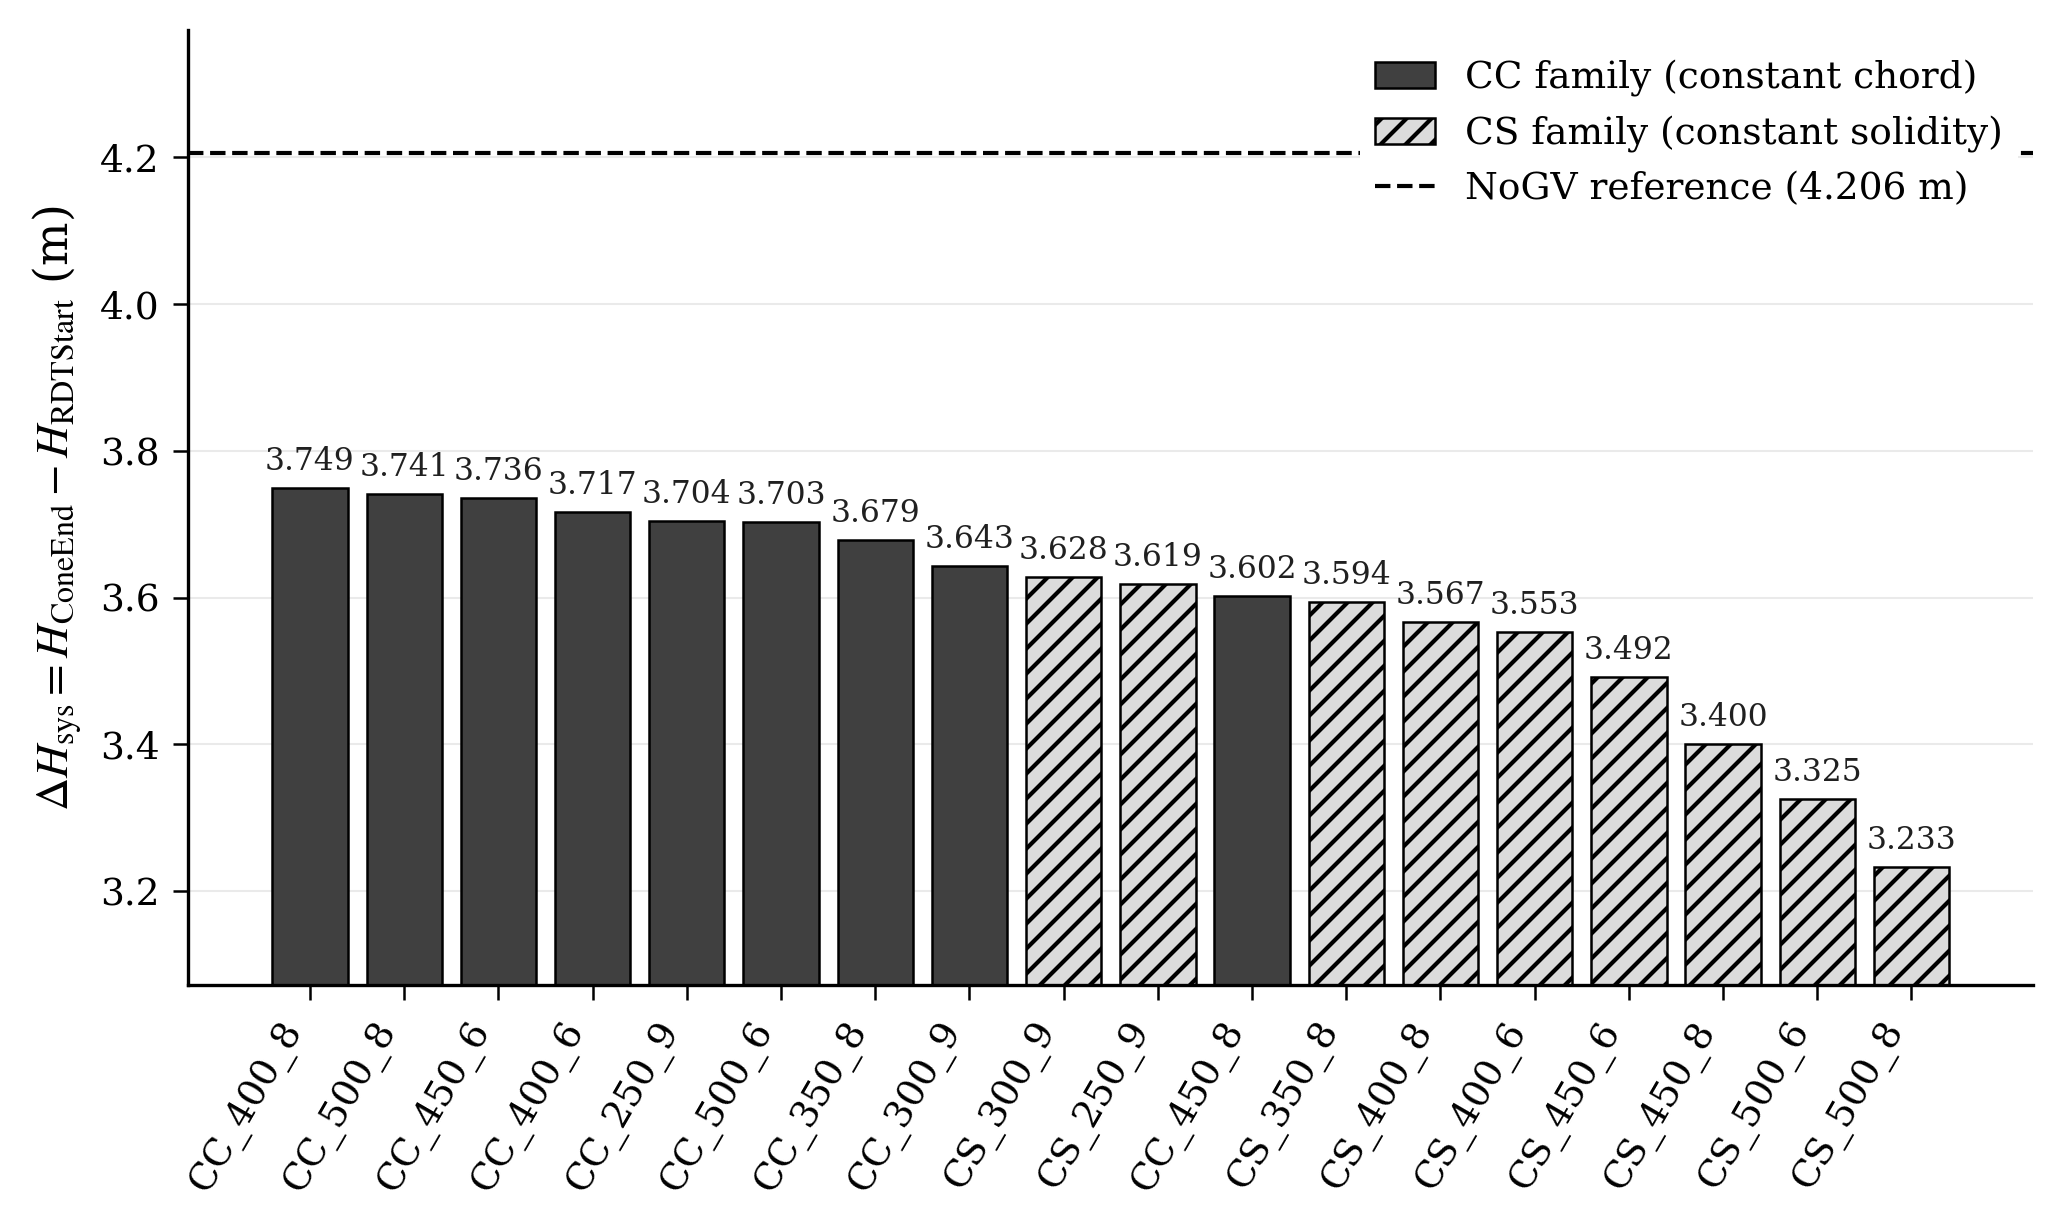
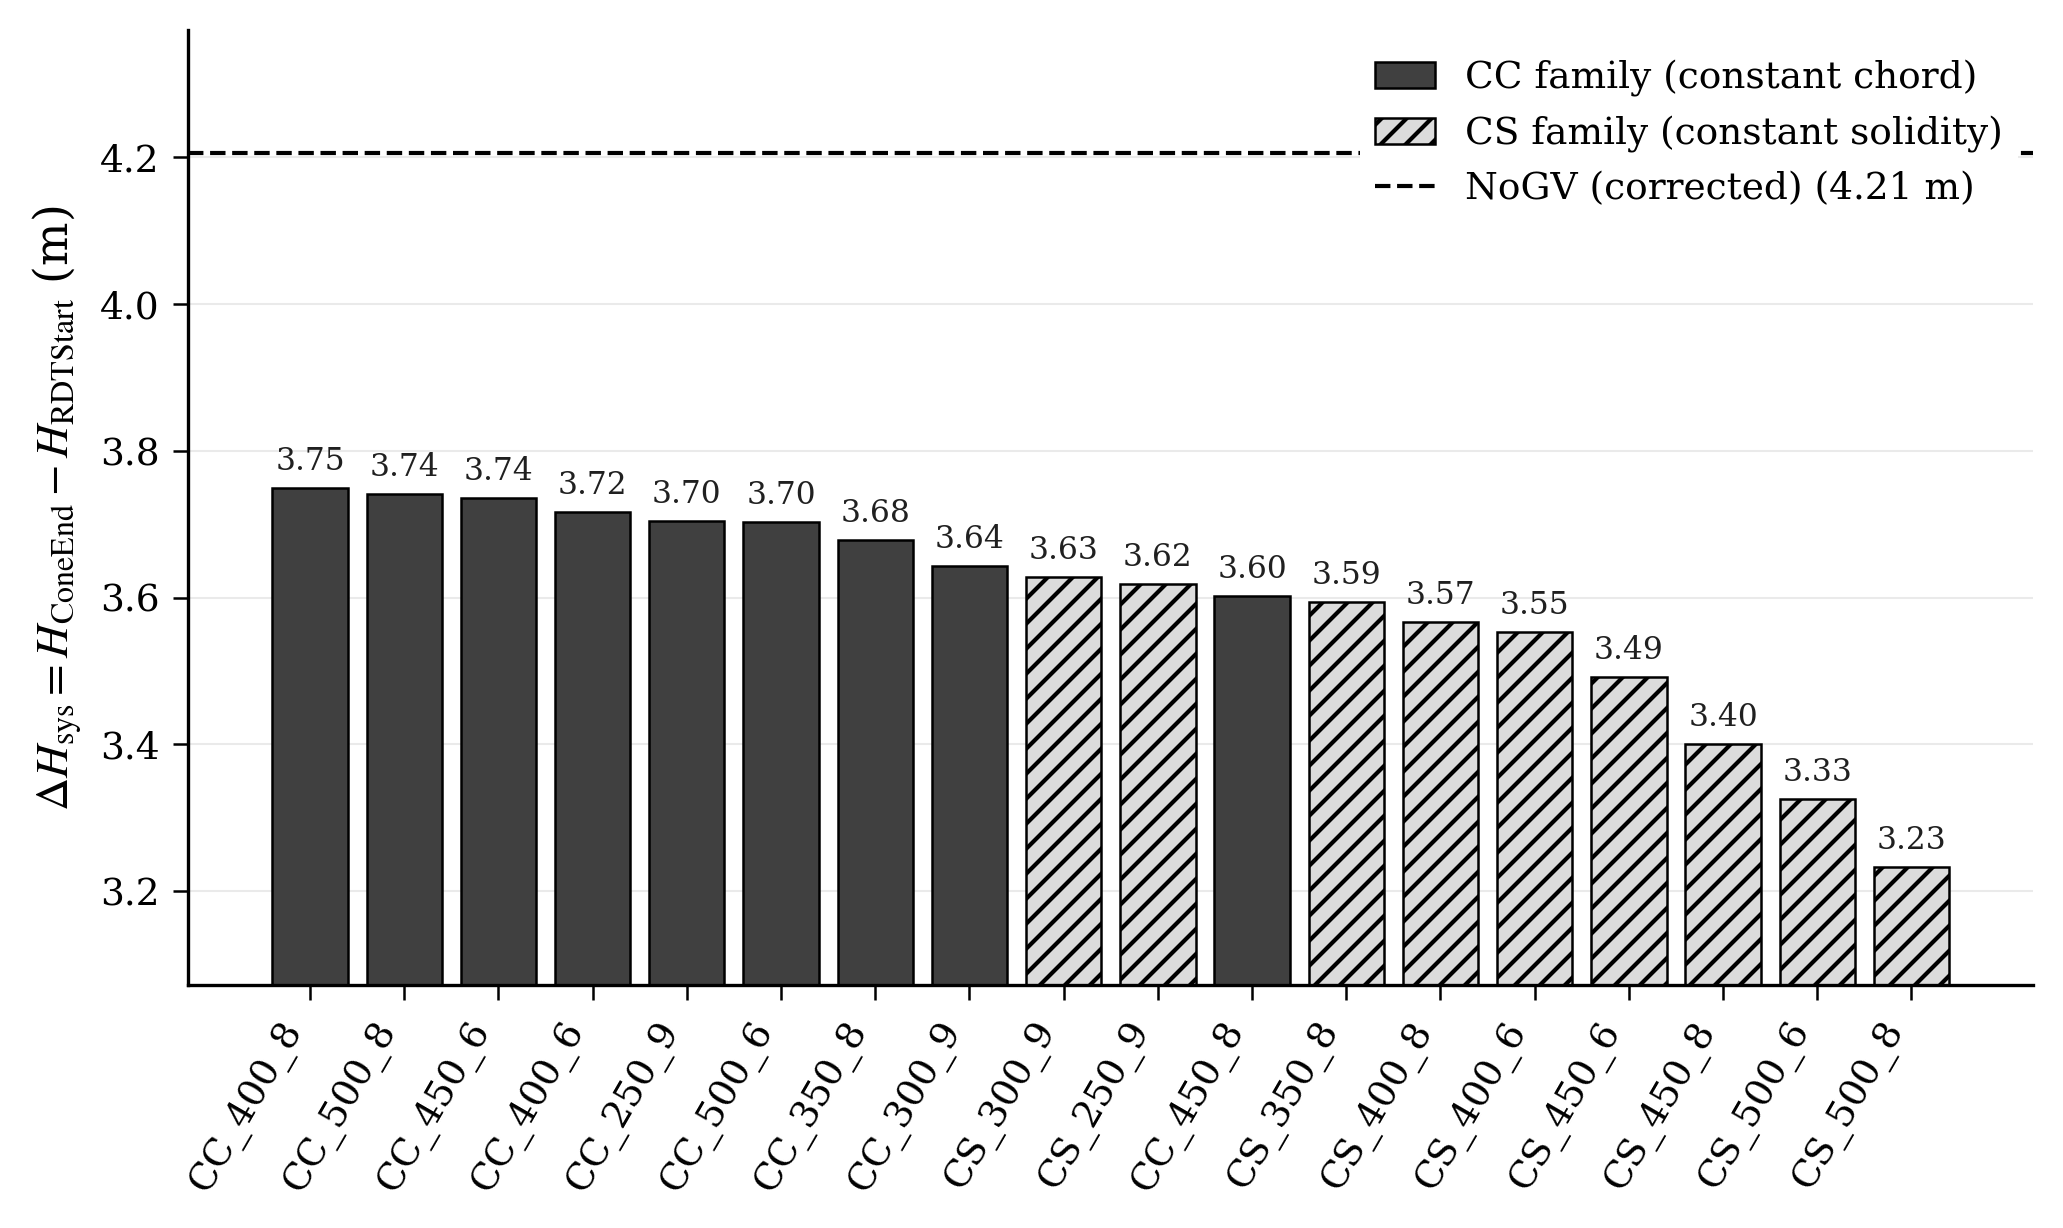
Updates from Overleaf

diff --git a/chapters/4.Results-and-discussions.tex b/chapters/4.Results-and-discussions.tex
@@ -521,24 +521,57 @@ The straight validation in Section~\ref{sec:nogv-straight-validation} produces a
 \label{fig:dean-vortex}
 \end{figure}
 
-The Dean pair is symmetric and counter-rotating. Peak in-plane velocity reaches $|V_{\mathrm{in\text{-}plane}}|/U_b = 0.51$ at the centres of the two vortices. The swirling-strength contour shows two compact regions of opposite sign separated by a line along the bend symmetry plane. No external rotational source drives this structure: the bend acting on an axial inlet flow produces the entire pattern.
+The straight validation is one end of a sequence. As the swirl arriving at the
+bend increases, the secondary-flow structure changes character.
+Figure~\ref{fig:dean-montage} shows the in-plane velocity field at \texttt{BendEnd}
+for the straight validation, the two loading levels in both families, and the NoGV
+swirl reference. Table~\ref{tab:dean-secondary} lists the net in-plane swirl number
+at \texttt{BendStart}, the peak in-plane velocity, and the bend head loss for the
+same cases on the corrected mesh.
 
-The NoGV swirl reference does not display the same Dean structure. Figure~\ref{fig:streamwise-composite} shows the in-plane velocity vector field at \texttt{ConeEnd} for the NoGV swirl reference alongside three GV configurations: \texttt{CS\_500\_8}, \texttt{CC\_500\_8}, and \texttt{CC\_250\_9}.
+The net in-plane swirl number at \texttt{BendStart} rises from near zero in the
+straight case to $0.13$-$0.14$ for the $500\_8$ pair, $0.52$-$0.55$ for the
+$250\_9$ pair, and $1.73$ for the NoGV reference. The structure follows. The
+straight case holds the symmetric counter-rotating Dean pair. The $500\_8$ cases
+carry a single offset cell on a weak Dean signature. The $250\_9$ cases show a
+central spiral. The NoGV reference is one dominant spiral with no trace of the
+Dean pair. This is the sign-dependent suppression described in
+Section~\ref{sec:theory_swirl_bend_interaction}: the imposed rotation reinforces
+one Dean cell and cancels the other, and once it is strong enough only one
+rotating structure survives. The peak in-plane velocity scales with the same
+sequence, from about $0.5$ in the straight and $500\_8$ cases to $1.1$ for
+$250\_9$ and $3.1$ for NoGV. Vane count sets the regime; the constant-chord and
+constant-solidity members of each pair fall in the same structural class and
+differ only in the streamwise detail of the decay. The net in-plane swirl number
+used here is a local cross-plane diagnostic, not the full-pipe swirl number $|S|$
+of Section~\ref{sec:s-streamwise}; the two are separate measures and are not
+compared directly.
 
-\begin{figure}[H]
-\centering
-\safeincludegraphics[width=0.99\linewidth]{Figures/Results/fig_4_8_streamwise_composite.png}
-\caption{In-plane velocity vector fields at \texttt{ConeEnd} for the NoGV swirl reference and three guide-vane configurations. The NoGV case shows a coherent spiral driven by the upstream RDT swirl. \texttt{CS\_500\_8} and \texttt{CC\_500\_8} sit in a partial-cancellation regime where the residual GV-induced rotation reduces the peak in-plane velocity below the pure Dean value of $0.51$. \texttt{CC\_250\_9} retains a strong residual spiral closer in form to the NoGV pattern, with the bend-induced Dean structure suppressed by the larger imposed rotation.}
-\label{fig:streamwise-composite}
-\end{figure}
+This sequence is the mechanism behind the binary bend-loss collapse of
+Section~\ref{sec:bend-hl-collapse}. The in-plane velocity entering the bend is the
+rotational kinetic energy the bend has to process, and that energy grows with the
+square of the velocity. The straight validation and all four guide-vane cases
+enter at or near the Dean level and leave bend losses between $0.005$ and
+$0.025$~m on the corrected mesh. These values differ by amounts within the
+numerical resolution of the screening and are not ranked against each other; the
+straight case even sits above one of them, because there the bend generates the
+Dean pair rather than receiving it. The NoGV reference enters with peak in-plane
+velocity about six times larger and loses $0.37$~m, two orders of magnitude more.
+The bend loss therefore splits into two groups, swirl-conditioned and not, rather
+than along a graded curve. The split holds on both the uncorrected and the
+corrected mesh, which is the form of the result that survives the mesh-bias
+caveat of Section~\ref{sec:rdt-mesh-overlap-impact}.
 
-The NoGV swirl pattern at \texttt{ConeEnd} is a single coherent spiral, not a counter-rotating pair. The upstream RDT swirl is strong enough that the bend-induced Dean structure cannot establish itself. The imposed rotation overwhelms the centrifugal-pressure imbalance that would otherwise drive Dean vortices. Peak in-plane velocity in the NoGV case is much larger than the straight-validation peak, but the structure carries no resemblance to the canonical Dean signature.
-
-The GV configurations sit in an intermediate regime. \texttt{CS\_500\_8} produces a peak $|V_{\mathrm{in\text{-}plane}}|/U_b = 0.35$ at \texttt{ConeEnd}, lower than both the NoGV swirl case and the pure Dean structure ($0.51$). The peak below the Dean value is the analytically interesting observation. If residual swirl and the bend-induced secondary flow added linearly, the GV case should produce a higher peak in-plane velocity than the straight validation, not a lower one. The reduction therefore indicates that the two secondary-flow components interact non-additively. A plausible mechanism is partial cancellation between the imposed swirl and one of the Dean vortices, but confirming the mechanism specifically would require a quantitative decomposition of the secondary-flow field that is outside the scope of the present screening. \texttt{CC\_500\_8} shows the same qualitative pattern at slightly higher peak magnitude. \texttt{CC\_250\_9} retains a stronger and more coherent residual spiral with the bend-induced Dean structure no longer visible; the pattern resembles the NoGV swirl regime but at smaller absolute magnitude.
-
-The peak in-plane velocity ranking across the four cases tracks the residual angle ranking established in Section~\ref{sec:swirl-recovery}. The streamwise composite therefore provides visual confirmation of the bulk swirl-recovery metric: configurations that reduce $|\alpha|_{\mathrm{ConeEnd}}$ also reduce the peak in-plane velocity at \texttt{ConeEnd} through the non-additive interaction discussed above. Configurations that under-correct instead carry a coherent residual spiral all the way through the duct.
-
-The local result has system-level implications. A configuration in the non-additive interaction regime delivers two benefits at the same time: a low residual angle metric, good for RPT inlet quality, and a peak in-plane secondary-flow velocity below the straight-bend baseline. The Pareto-front configurations with PPR sign sit closest to this regime in the screening matrix. \texttt{CC\_400\_8} with NPR sign represents an untested case: over-correction means the imposed swirl rotates against the original RDT-swirl direction, and whether the same favourable interaction holds for NPR-sign cases or whether the interaction instead amplifies the secondary flow cannot be settled without a streamwise analysis of \texttt{CC\_400\_8} on the corrected mesh. The question adds analytical weight to the case for the corrected rerun flagged in Section~\ref{sec:pareto-anchor-check}.
+The well-recovered cases also show that the residual swirl and the bend secondary
+flow do not simply add. \texttt{CC\_500\_8} reaches a peak in-plane velocity of
+$0.60$ inside the bend, above the pure-Dean value of $0.51$, yet leaves the bend
+below it. Linear superposition would keep the exit peak above the Dean value, not
+below. The reduction indicates a partial cancellation between the imposed rotation
+and one of the Dean cells. Confirming the specific mechanism would need a
+quantitative decomposition of the secondary-flow field, and the NPR-sign case
+\texttt{CC\_400\_8} is left for the corrected rerun flagged in
+Section~\ref{sec:pareto-anchor-check}. The per-case fields through the full bend
+are collected in Appendix~\ref{app:dean-panels}.
 
 \subsection{Vortex-core identification via Q-criterion (placeholder)}
 \label{sec:q-criterion-analysis}